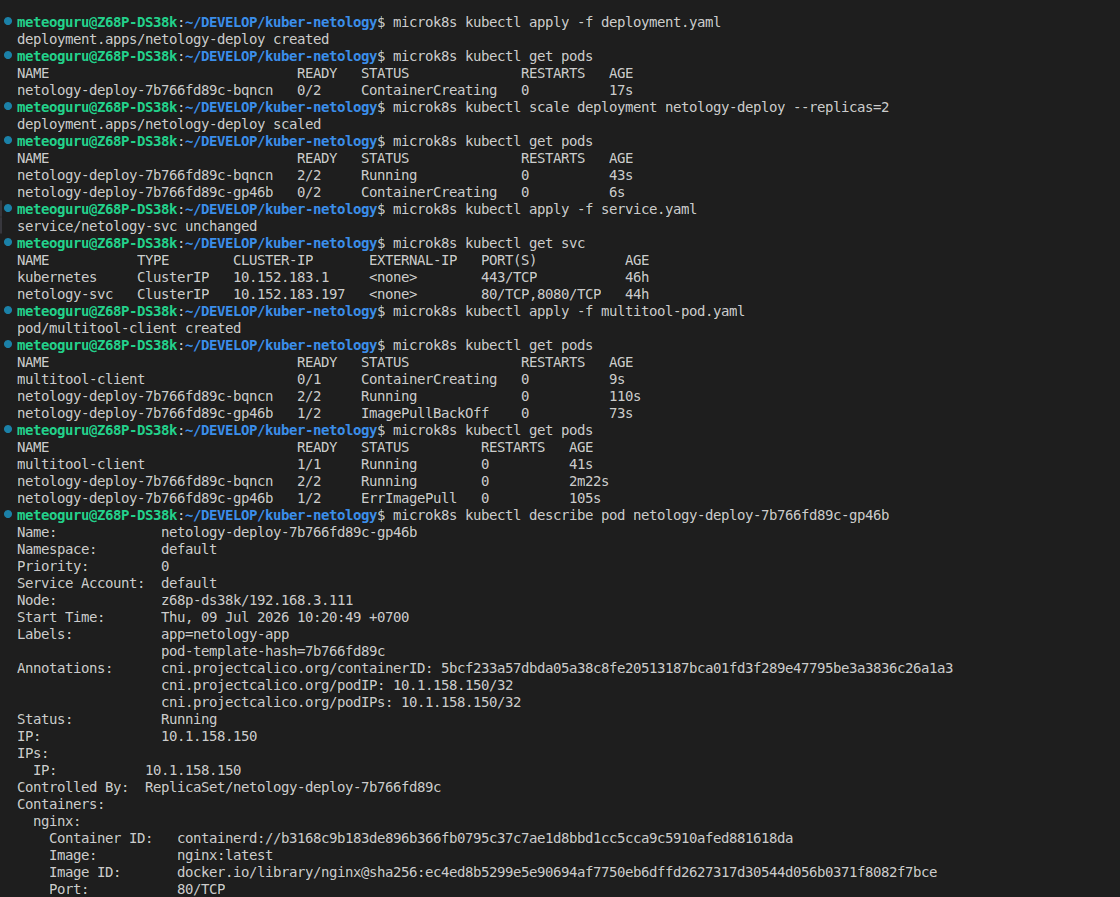
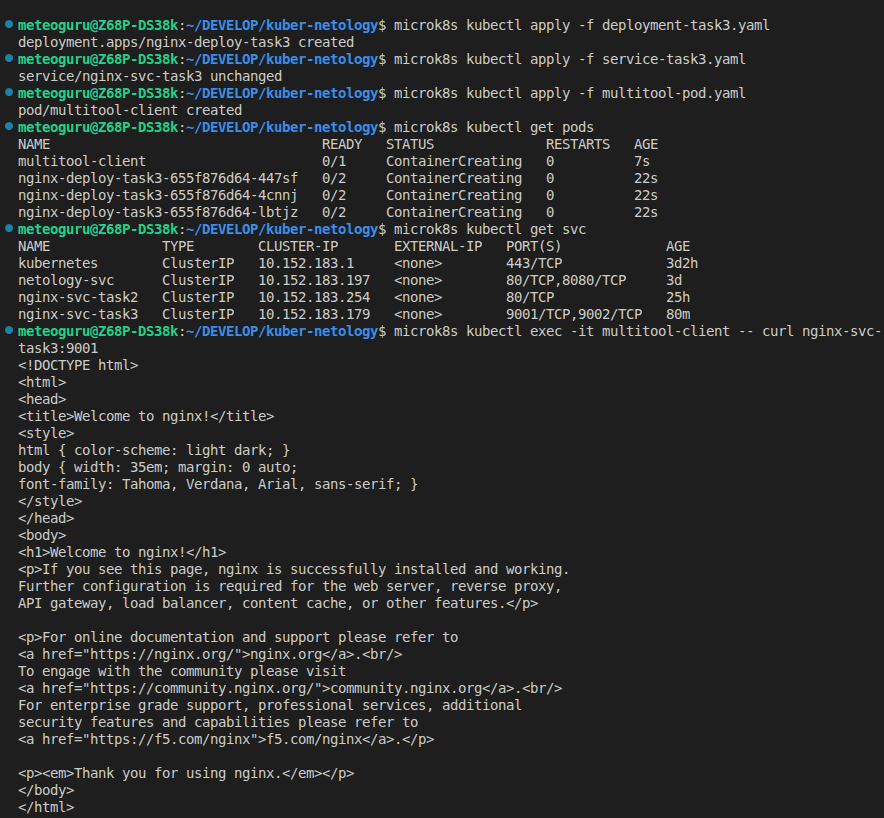
refactor(multitool-pod.yaml): adjust indentation and update readme.md
- Fix indentation in multitool-pod.yaml
- Rewrite and expand readme.md with detailed deployment instructions
- Remove unnecessary files (deployment.yaml, deployment-task2.yaml, service.yaml, service-task2.yaml)
- Update readme.md with new deployment instructions and screenshots

Changed region(s): [[0.0, 0.0, 0.8552, 1.0], [0.8552, 0.3973, 1.0, 0.4279]]

diff --git a/readme.md b/readme.md
@@ -1,31 +1,61 @@
 # Задание 1. Создать Deployment и обеспечить доступ к репликам приложения из другого Pod
 
-## 1. Создание Deployment
-Файл: [deployment.yaml](deployment.yaml)
+1. Создать Deployment и обеспечить доступ к контейнерам приложения по разным портам из другого Pod внутри кластера
 
-## 2. Создание Service
-Файл: [service.yaml](service.yaml)
+    * (я использовал microk8s, можно выполнить все команды про порядку)
 
-## 3. Создание Pod
-Файл: [multitool-pod.yaml](multitool-pod.yaml)
+### Запуск [Deployment](deployment-task3.yaml)
 
+```
+microk8s kubectl apply -f deployment-task3.yaml
+```
 
-Создаем Deployment, проверяем Pod, масштабируем Deployment до 2 шт, создаем Service, создаём Pod multitool-client,.... 
+### Запуск [Service](service-task3.yaml)
 
-![alt text](image.png)
+```
+microk8s kubectl apply -f service-task3.yaml
+```
 
-...(pod netology-deploy-7b766fd89c-gp46b скачался и запустился не сразу...)... проверяем доступ из multitool-client
+### Запуск [Pod](multitool-pod.yaml)
+
+```
+microk8s kubectl apply -f multitool-pod.yaml
+```
+
+### Проверки
+
+```
+# 3 Pod с двумя контейнерами + Pod multitool‑client
+
+microk8s kubectl get pods
+```
+
+```
+# сервис с портами 9001 и 9002.
+
+microk8s kubectl get svc
+```
+
+```
+# страница nginx на 9001 порту ⤵
+
+microk8s kubectl exec -it multitool-client -- curl nginx-svc-task3:9001
+
+# страница multitool на 9002 порту ⤵
+
+microk8s kubectl exec -it multitool-client -- curl nginx-svc-task3:9002
+```
+
+### Удаление
+
+```
+microk8s kubectl delete deployments,pods --all
+```
+
+#### screenshot №1
+
+![alt text](image.png))
+
+#### screenshot №2
 
 ![alt text](image-1.png)
-
-P.S. был создан Deployment с двумя контейнерами, масштабирован до двух реплик, подключён через Service и успешно проверен доступ к обоим контейнерам из отдельного Pod multitool
-
-# Задание 2. Создать Deployment и обеспечить старт основного контейнера при выполнении условий
-
-Файлы:
-- [deployment-task2.yaml](deployment-task2.yaml)
-- [service-task2.yaml](service-task2.yaml)
-
-[Deployment](deployment-task2.yaml) с Init‑контейнером блокировал запуск nginx до появления [Service](service-task2.yaml). После создания Service Init завершился, и nginx успешно запустился.
-
-![alt text](image-2.png)